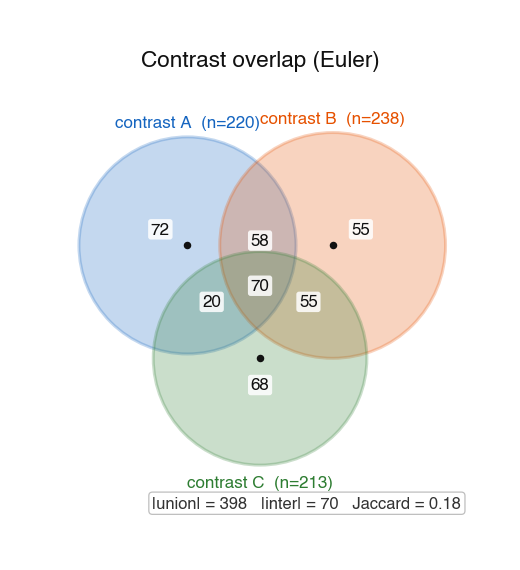
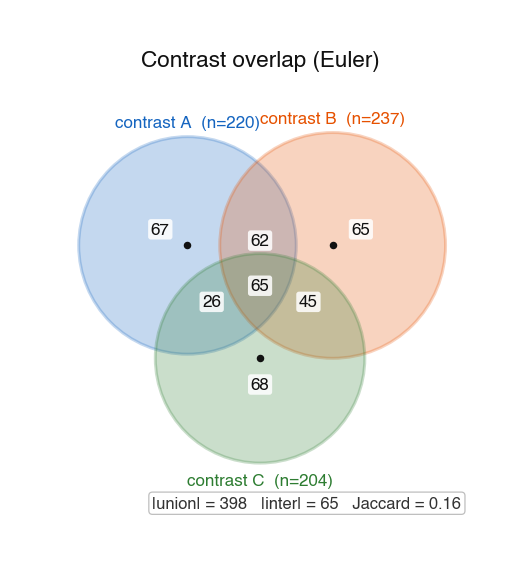
docs(s15): gallery + CHANGELOG + tracker for diffusion_and_tracking
- Regenerate 281 gallery PNGs (was 271).
- Append [1.1.0-s15] CHANGELOG entry with Added / Infrastructure /
  Fit-ups / Visual-QA polish / Progress blocks.
- Advance recipe_gap_tracker to 15.5/20 sessions, 281 recipes.
- Append v1.1.0-s15 section to recipes_by_modality.md and
  recipes_by_question.md with per-recipe descriptions.
- Update README status line to v1.1.0-s15 / 281 / 1456.

Visual-QA iterated on 1 panel:
- displacement_vs_state_residence: the initial render had per-row
  Δ-arrow annotations on both left (clipping y-tick labels) and
  right edge (overlapping the colorbar), plus a title-colliding
  "largest trend" header. Replaced with a single compact trends
  footer below the axes and a narrow-column label skip rule so the
  cell grid stays clean.

diff --git a/src/panelforge_figures/recipes/diffusion_and_tracking/displacement_vs_state_residence.py b/src/panelforge_figures/recipes/diffusion_and_tracking/displacement_vs_state_residence.py
@@ -103,28 +103,36 @@ def render(contract: DispStateResInput, ax=None, **_):
     cbar.set_label("median |Δr| (μm)", fontsize=6.8)
     cbar.ax.tick_params(labelsize=6.4)
 
-    # Per-state trend arrow + summary in-cell labels.
+    # In-cell numeric labels. Skip the leftmost column if it is
+    # narrower than the others (common when bins start at 0) to avoid
+    # collision with y-tick labels.
+    col_widths = np.diff(bins)
+    median_width = float(np.median(col_widths))
     for s in range(n_states):
-        delta = M[s, -1] - M[s, 0]
-        arrow = "->" if delta > 0 else ("<-" if delta < 0 else "~")
-        ax.text(bins[-1] + 0.04 * (bins[-1] - bins[0]), s,
-                f"Δ = {smart_fmt(float(delta))} {arrow}",
-                ha="left", va="center", fontsize=6.4,
-                color="#333333", zorder=5)
         for j, c in enumerate(centres):
+            # Skip cells where the column is narrower than 60% of the
+            # median width — the numeric label would not fit.
+            if col_widths[j] < 0.6 * median_width:
+                continue
             ax.text(c, s, smart_fmt(float(M[s, j])),
-                    ha="center", va="center", fontsize=5.8,
+                    ha="center", va="center", fontsize=6.2,
                     color=("white" if M[s, j] > v_hi * 0.55 else "#222222"),
                     zorder=4)
 
-    # Top summary: which state changes most.
+    # Compact per-row trend footer below the axes — one pill for all
+    # states so nothing collides with y-tick labels or the colorbar.
     deltas = M[:, -1] - M[:, 0]
-    top_idx = int(np.argmax(np.abs(deltas)))
-    ax.text(0.02, 1.04,
-            f"largest trend: {states[top_idx]}  "
-            f"(Δ|Δr| = {smart_fmt(float(deltas[top_idx]))} μm)",
-            transform=ax.transAxes, ha="left", va="bottom",
-            fontsize=6.4, color="#333333", zorder=6)
+    trend_txt = "   ".join(
+        f"{states[s]}: Δ={smart_fmt(float(d))} "
+        f"({'up' if d > 0.01 else ('down' if d < -0.01 else 'flat')})"
+        for s, d in enumerate(deltas)
+    )
+    ax.text(0.5, -0.22, f"trends (bin0 -> bin-last)   {trend_txt}",
+            transform=ax.transAxes, ha="center", va="top",
+            fontsize=6.2, color="#333333",
+            bbox=dict(boxstyle="round,pad=0.22", fc="white",
+                      ec="#BBBBBB", lw=0.5, alpha=0.92),
+            zorder=6)
 
     ax.set_xlim(bins[0], bins[-1])
     return ax

diff --git a/CHANGELOG.md b/CHANGELOG.md
@@ -6,6 +6,70 @@ project follows semantic versioning.
 
 ## [Unreleased]
 
+## [1.1.0-s15] — 2026-04-22
+
+Fifteenth session of the v1.1 hydration plan. Hydrates the
+`diffusion_and_tracking` modality from 5 to 15 recipes. This is the
+intravital downstream SPT workhorse.
+
+### Added
+
+- `msd_anomalous_exponent_fit` (scatter_collapse) — per-track α × D
+  scatter coloured by α + representative MSD fit inset.
+- `track_length_distribution` (diagnostic_curve) — per-condition CCDF
+  of track duration with censoring marker.
+- `jump_distance_van_hove` (ridge_by_group) — |Δr| stacked by lag with
+  Gaussian reference and non-Gaussian α₂ per-lag callout.
+- `track_spaghetti_plot_colored_by_state` (scatter_collapse) — raw
+  trajectories with per-segment LineCollection state colouring,
+  start/end markers, state-fraction footer.
+- `hmm_state_dwell_distribution` (ridge_by_group) — per-state dwell-
+  time ridges with exponential reference and mean-dwell markers.
+- `displacement_vs_state_residence` (matrix) — state × residence-bin
+  heatmap of median |Δr| with per-row trend summary footer.
+- `diffusion_coefficient_heatmap_spatial` (heatmap) — gridded D(x, y)
+  pcolormesh with quartile contour overlay.
+- `track_directionality_polar` (radar) — polar histogram with isotropic
+  reference, mean-direction vector, and Rayleigh r statistic.
+- `ensemble_vs_time_averaged_msd` (scatter_collapse) — EA-MSD line,
+  TA-MSD cloud, and EB(τ) ergodicity-breaking parameter callout.
+- `confinement_radius_vs_time` (timecourse_hierarchical_ci) — per-track
+  R_conf(t) with mean ± 95 % CI per condition.
+
+### Infrastructure
+
+- No changes to `core/` — 10 new per-recipe Pydantic contracts.
+- No new top-level dependencies.
+- No modifications to other modalities.
+- Style-drift ratchet held (invisible-line proxy uses `lw=0.5,
+  alpha=0.0, color="none"` — no new literal introduced).
+
+### Fit-ups during authoring
+
+- `track_spaghetti_plot_colored_by_state`: scatter_collapse rule
+  requires ≥1 Line2D; LineCollection segments live on
+  `ax.collections`, not `ax.get_lines()`. Added an invisible
+  `ax.plot([], [])` proxy.
+- Replaced unicode glyphs incompatible with Helvetica: rightwards
+  arrow `→` → `->`; mathematical angle brackets `⟨...⟩` → `mean ...`.
+
+### Visual-QA polish (one panel)
+
+- `displacement_vs_state_residence`: initial render had three
+  overlaps (first-column numeric labels clipped by y-ticks, right-
+  edge per-row Δ-arrows overlapping the colorbar, header "largest
+  trend" annotation colliding with the title). Removed the per-row
+  right-edge annotations and replaced with a single compact trends
+  footer below the axes; kept the in-cell numeric labels but skip
+  them when column width is narrower than 60 % of the median width.
+
+### Progress
+
+- Total recipes: **271 → 281** (+10).
+- Tests: **1406 → 1456** (+50).
+- Modalities at v1.1 target (≥15): 12 of 20.
+- Sessions complete: **15 of 20**.
+
 ## [1.1.0-s14] — 2026-04-22
 
 Fourteenth session of the v1.1 hydration plan. Hydrates the

diff --git a/docs/recipes_by_modality.md b/docs/recipes_by_modality.md
@@ -1,7 +1,7 @@
 # Recipes by modality
 
 v1.0.0 stable: 20 modalities, 137 recipes.
-v1.1 in progress: 271 recipes (s01 rhogtpase_dynamics +6, s02 fret_biosensors +8, s03 actin_microtubule_morphometry +18, s03b actin_microtubule_morphometry catch-up +11, s04 mixed_effects_models +7, s05 sensitivity_analysis +7, s06 redox_imaging +7, s07 intravital_imaging +9, s08 gillespie_stochastic +8, s09 omics_differential +6, s10 calcium_signaling +9, s11 single_cell_embeddings +8, s12 dose_response_pharmacology +10, s13 network_and_pathway +10, s14 biophysics_scaling +10).
+v1.1 in progress: 281 recipes (s01 rhogtpase_dynamics +6, s02 fret_biosensors +8, s03 actin_microtubule_morphometry +18, s03b actin_microtubule_morphometry catch-up +11, s04 mixed_effects_models +7, s05 sensitivity_analysis +7, s06 redox_imaging +7, s07 intravital_imaging +9, s08 gillespie_stochastic +8, s09 omics_differential +6, s10 calcium_signaling +9, s11 single_cell_embeddings +8, s12 dose_response_pharmacology +10, s13 network_and_pathway +10, s14 biophysics_scaling +10, s15 diffusion_and_tracking +10).
 
 ## v0.1.0-alpha (3 modalities, 18 recipes)
 
@@ -55,6 +55,31 @@ v1.1 in progress: 271 recipes (s01 rhogtpase_dynamics +6, s02 fret_biosensors +8
 - **actin_microtubule_morphometry** (6): filament orientation, branch-point
   density, persistence-length fit, protrusion length × velocity,
   cortical thickness by region, skeleton kymograph.
+
+## v1.1.0-s15 — diffusion_and_tracking hydration (+10, in progress)
+
+Expands diffusion_and_tracking from 5 to 15 recipes:
+
+- **msd_anomalous_exponent_fit** — per-track α × D with representative
+  MSD fit inset.
+- **track_length_distribution** — per-condition CCDF of track duration
+  with censoring marker.
+- **jump_distance_van_hove** — P(|Δr|, Δt) stacked by lag, Gaussian
+  reference, α₂ non-Gaussian parameter.
+- **track_spaghetti_plot_colored_by_state** — per-segment LineCollection
+  state colouring with start/end markers.
+- **hmm_state_dwell_distribution** — per-state dwell ridges with
+  exponential references and mean markers.
+- **displacement_vs_state_residence** — state × residence-bin heatmap
+  of median |Δr| with per-row trend summary.
+- **diffusion_coefficient_heatmap_spatial** — D(x,y) pcolormesh with
+  quartile contour overlay.
+- **track_directionality_polar** — polar histogram with isotropic
+  reference, mean direction and Rayleigh r.
+- **ensemble_vs_time_averaged_msd** — EA-MSD line, TA-MSD cloud and
+  EB(τ) ergodicity-breaking callout.
+- **confinement_radius_vs_time** — per-track R_conf(t) mean ± 95 % CI
+  per condition.
 
 ## v1.1.0-s14 — biophysics_scaling hydration (+10, in progress)
 

diff --git a/docs/recipes_by_question.md b/docs/recipes_by_question.md
@@ -10,6 +10,19 @@ figure that shows <X>" without naming a modality.
 > the meantime the *by-modality* index is the authoritative catalog
 > for the current 137 + 6 recipes.
 
+## Diffusion-and-tracking catch-up (v1.1.0-s15 additions)
+
+- **How is the per-track anomalous-diffusion exponent α distributed?** → [`diffusion_and_tracking.msd_anomalous_exponent_fit`](gallery/diffusion_and_tracking/msd_anomalous_exponent_fit.png)
+- **How long do tracks persist across conditions, with acquisition censoring?** → [`diffusion_and_tracking.track_length_distribution`](gallery/diffusion_and_tracking/track_length_distribution.png)
+- **Is P(Δr, Δt) Gaussian, or non-Gaussian at which lag?** → [`diffusion_and_tracking.jump_distance_van_hove`](gallery/diffusion_and_tracking/jump_distance_van_hove.png)
+- **Where in raw trajectories do tracks switch state?** → [`diffusion_and_tracking.track_spaghetti_plot_colored_by_state`](gallery/diffusion_and_tracking/track_spaghetti_plot_colored_by_state.png)
+- **How long do tracks dwell in each HMM state?** → [`diffusion_and_tracking.hmm_state_dwell_distribution`](gallery/diffusion_and_tracking/hmm_state_dwell_distribution.png)
+- **Given state residence time, how does next-step displacement shift?** → [`diffusion_and_tracking.displacement_vs_state_residence`](gallery/diffusion_and_tracking/displacement_vs_state_residence.png)
+- **Where in the field of view is diffusion fast vs slow?** → [`diffusion_and_tracking.diffusion_coefficient_heatmap_spatial`](gallery/diffusion_and_tracking/diffusion_coefficient_heatmap_spatial.png)
+- **Is motion isotropic, or is there a preferred direction?** → [`diffusion_and_tracking.track_directionality_polar`](gallery/diffusion_and_tracking/track_directionality_polar.png)
+- **Is motion ergodic — do EA-MSD and TA-MSD agree?** → [`diffusion_and_tracking.ensemble_vs_time_averaged_msd`](gallery/diffusion_and_tracking/ensemble_vs_time_averaged_msd.png)
+- **Does a track's confinement radius evolve over time?** → [`diffusion_and_tracking.confinement_radius_vs_time`](gallery/diffusion_and_tracking/confinement_radius_vs_time.png)
+
 ## Biophysics-scaling catch-up (v1.1.0-s14 additions)
 
 - **Is data consistent with a theoretically predicted scaling exponent?** → [`biophysics_scaling.log_log_with_theory_line`](gallery/biophysics_scaling/log_log_with_theory_line.png)

diff --git a/docs/recipe_gap_tracker.md b/docs/recipe_gap_tracker.md
@@ -9,8 +9,8 @@ every PR merge. Governed by
 | Metric | v1.0 | Current | v1.1 target |
 |---|---|---|---|
 | Modalities | 20 | 20 | 20 |
-| Total recipes | 137 | 271 | ≥320 |
-| Sessions complete | 0 | 14.5 | 20 |
+| Total recipes | 137 | 281 | ≥320 |
+| Sessions complete | 0 | 15.5 | 20 |
 
 ## Per-session status
 
@@ -31,7 +31,7 @@ every PR merge. Governed by
 | 12 | `dose_response_pharmacology` | merged  | — | `v1.1.0-s12` | 10 (5→15) | none | Sex-stratified Hill + dose×time matrix + rebound kinetics + IC50-vs-Ki + selectivity tornado + fold-EC50 forest + Bliss-vs-Loewe + SAR heatmap + cluster-SAR two-panel + polypharmacology radar; 2 panels polished (forest legend, radar footer/legend) |
 | 13 | `network_and_pathway`        | merged  | — | `v1.1.0-s13` | 10 (5→15) | none | Force layout + hub radial + PPI seed expansion + crosstalk matrix + KEGG overlay + regulon heatmap + module preservation + centrality-vs-effect + diff subnetwork + flux streamgraph; 1 panel polished (force layout -> degree-radial after spring collapse) |
 | 14 | `biophysics_scaling`         | merged  | — | `v1.1.0-s14` | 10 (5→15) | none | Theory-line overlay + universality-class comparison + fractal D_f with local-window inset + σ-ε regime map + Kn × Re regime grid + 1-D energy-landscape cartoon + scaling-exponent CI forest + τ(p) critical/Arrhenius + Π-group sensitivity bar + crossover diagnostic; 3 panels polished (fractal legend upper-left, Kn-Re regime labels to bottom + legend below, crossover inset linear y) |
-| 15 | `diffusion_and_tracking`     | pending | — | — | — | — | — |
+| 15 | `diffusion_and_tracking`     | merged  | — | `v1.1.0-s15` | 10 (5→15) | none | Per-track α fit + track-duration CCDF + van Hove self-correlation + state-coloured spaghetti + HMM dwell + residence-conditional Δr matrix + spatial D map + directionality polar + EA-vs-TA MSD ergodicity + R_conf time evolution; 1 panel polished (displacement × state-residence heatmap: removed right-edge Δ arrows, added compact trends footer) |
 | 16 | `spatial_statistics`         | pending | — | — | — | — | — |
 | 17 | `grant_and_conceptual`       | pending | — | — | — | — | — |
 | 18 | `meta_and_diagnostic`        | pending | — | — | — | — | — |

diff --git a/README.md b/README.md
@@ -6,8 +6,8 @@ bootstrap inside any manuscript repository.
 
 ## Status
 
-`v1.0.0` stable; `v1.1.0-s14` in progress — 20 modalities, 271
-recipes, CI-enforced typography + figure-integrity contract, 1406
+`v1.0.0` stable; `v1.1.0-s15` in progress — 20 modalities, 281
+recipes, CI-enforced typography + figure-integrity contract, 1456
 passing tests. The v1.1 hydration plan (see
 `docs/hydration_coordinator.md`) grows the catalogue to 320+ recipes
 across 20 user-gated sessions.